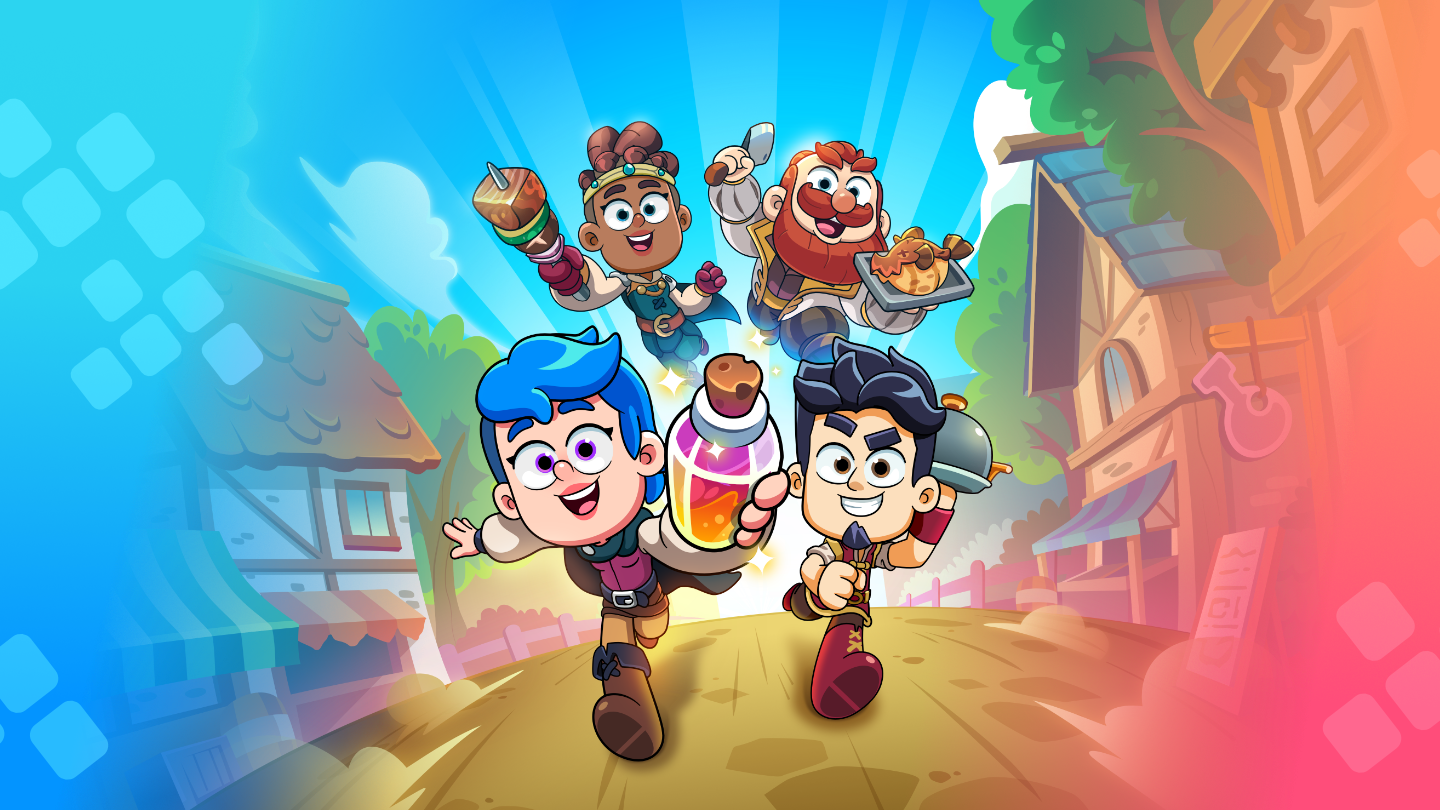
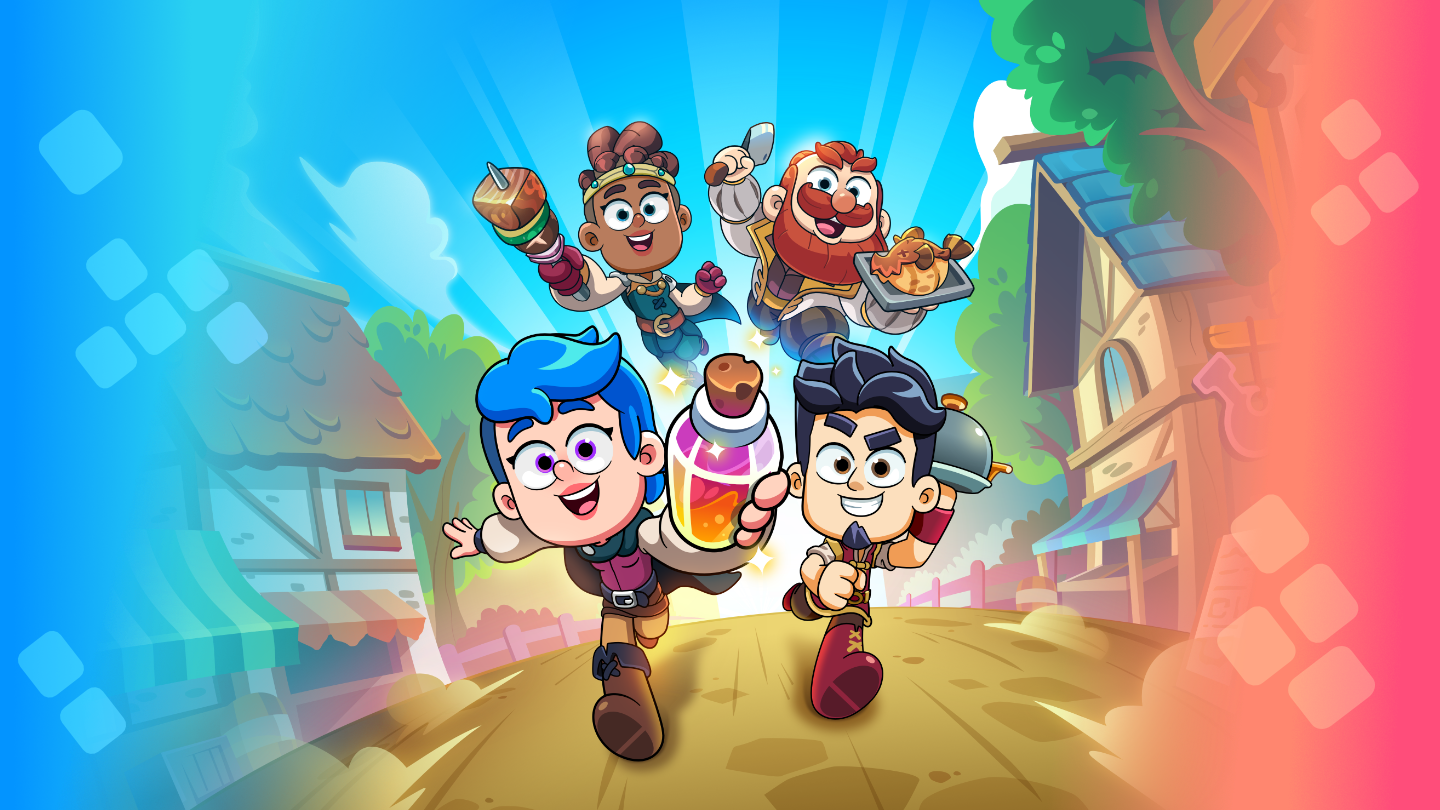
UI updates

diff --git a/assets/signup/css/signup.css b/assets/signup/css/signup.css
@@ -3,42 +3,59 @@
     padding: 0;
     font-family: LexendDeca;
 }
-body{
-    display: block;
-    width: 100%;
+html{
     height: 100%;
-    overflow: hidden;
-    position: absolute;
+}
+body{
+    /* display: block; */
+    /* width: 100%; */
+    min-height: 100%;
+    /* min-height: 100%; */
+    /* overflow-x: hidden;
+    overflow-y: auto; */
+    /* position: absolute; */
+    /* border:2px solid rgb(255, 0, 242); */
+    /* position: relative; */
+    
 }
 .monstronauts-body{
+    
+    display: flex;
+    flex-direction: column;
+    align-items: center;
+    /* overflow: hidden; */
+    position: absolute;
+    width: 100%;
+    height: 100%;
+    /* bottom: 0; */
+}
+/* .background{
+    position: fixed;
+    width: 100vw;
+    height: 100vh;
     background-image: url(../image/ppr_web_BG.png);
     background-size: cover;
     background-repeat: no-repeat;
     background-position: center;
-    display: flex;
-    flex-direction: column;
-    align-items: center;
-    overflow: hidden;
-    position: relative;
-    width: 100%;
-    height: 100%;
-    bottom: 0;
-}
+    max-width: 1440px;
+    margin-left: 10rem;
+} */
 #background-container{
     display: flex;
     flex-direction: column;
     justify-content: center;
     align-items: center;
-    overflow: hidden;
-    position: absolute;
+    /* overflow: hidden; */
+    position: fixed;
     width: 100%;
     height: 100%;
+    background: linear-gradient(to right, #0394FF 50%, #FF4D7A 50%);
 }
 
 #background-container .background{
     position: absolute;
-    height: 115vh;
-    width: max-content;
+    height: 100%;
+    /* max-width: 100%; */
 }
 
 #signup-container{
@@ -46,7 +63,7 @@ body{
     flex-direction: column;
     justify-content: center;
     align-items: center;
-    overflow: hidden;
+    /* overflow: hidden; */
     position: relative;
     width: 100%;
     height: 100%;
@@ -55,6 +72,8 @@ body{
 #signup-container .logo{
     position: absolute;
     top: 2px;
+    max-width: 100%;
+    max-height: 100%;
 }
 
 #signup-container .signupBtn{
@@ -96,7 +115,7 @@ body{
 
 #signup-container .copyright{
     position: absolute;
-    bottom: 1rem;
+    bottom: 0.5rem;
     user-select: none;
 }
 .copyright .text{
@@ -109,9 +128,9 @@ body{
 
 
 @media screen and (max-width: 600px) {
-    #signup-container .logo{
+    /* #signup-container .logo{
         width: 85vw;
-    }
+    } */
     #signup-container .signupBtn{
         width: 85vw;
     }

diff --git a/assets/forms/css/forms.css b/assets/forms/css/forms.css
@@ -8,13 +8,13 @@ a:hover{
 #forms-container{
     display: flex;
     align-items: center;
-    justify-content: center;
+    /* justify-content: center; */
     flex-direction: column;
     width: 100%;
-    height: 100%;
+    /* height: 100%; */
     position: relative;
     /* border:2px solid red; */
-    overflow-y: auto;
+
 }
 #forms-container .logo{
     position: absolute;
@@ -24,13 +24,13 @@ a:hover{
 #forms-container .formColumn{
     display: flex;
     justify-content: center;
-    position: absolute;
+    position: relative;
     background-color: var(--web-forms-container);
     max-width: 85rem;
     padding-top: 5rem;
-    top: 8rem;
+    margin-top: 8rem;
     border-radius: 25px;
-    margin-bottom: 5rem;
+    margin-bottom: 1rem;
     margin-left: 10rem;
     margin-right: 10rem;
 }
@@ -38,11 +38,12 @@ a:hover{
     display: flex;
     flex-direction: column;
     align-items: center;
-    justify-content: center;
+    /* justify-content: center; */
     position: relative;
     width: 45%;
-    height: fit-content;
+    /* height: fit-content; */
     padding: 0 2rem 0rem 2rem;
+    user-select: none;
     /* padding-top: 8rem; */
     /* top: 8rem; */
     /* border:2px solid red; */
@@ -97,13 +98,15 @@ a:hover{
 #month{
     position: relative;
 }
-input[type="month"]:in-range::-webkit-datetime-edit-year-field, 
-input[type="month"]:in-range::-webkit-datetime-edit-month-field, 
-input[type="month"]:in-range::-webkit-datetime-edit-day-field, 
-input[type="month"]:in-range::-webkit-datetime-edit-text { 	
+.hideMonthPlaceholder::-webkit-datetime-edit-year-field, 
+.hideMonthPlaceholder:in-range::-webkit-datetime-edit-month-field,  
+.hideMonthPlaceholder:in-range::-webkit-datetime-edit-text { 	
     color: transparent; 
+    user-select: none;
+    background-color: transparent;
 }
-#month::-webkit-calendar-picker-indicator {
+
+/* #month::-webkit-calendar-picker-indicator {
     position: absolute;
     right: 0;
     width: 100%;
@@ -112,7 +115,7 @@ input[type="month"]:in-range::-webkit-datetime-edit-text {
     padding: 0;
     opacity: 0;
     cursor: pointer;
-  }
+  } */
 .datepicker {
     transform: translateX(-50%);
     left: 50% !important;

diff --git a/assets/forms/js/forms.js b/assets/forms/js/forms.js
@@ -25,7 +25,9 @@ $(document).ready(function () {
   attachSubmitButtonEvent();
 
   inputValidity("#email","Please enter a valid email")
-
+  $('#checkbox').on('invalid', function() {
+    this.setCustomValidity('Please accept the terms to proceed');
+  });
   
 });
 
@@ -131,6 +133,7 @@ function attachSubmitButtonEvent(){
 
 function inputValidity(element,onMismatch,onEmpty=""){
   $(element).on("input", function() {
+    
     if (this.validity.typeMismatch) {
       this.setCustomValidity(onMismatch);
     }
@@ -140,16 +143,40 @@ function inputValidity(element,onMismatch,onEmpty=""){
   });
 }
 function showMonthPlaceHolder(){
-  //var isMobile = /iPhone|iPad|iPod|Android/i.test(navigator.userAgent);
-  var $input = $('#month');
-  
-  $(".placeholder").html("MMM YYYY")
+  let isMobile = /iPhone|iPad|iPod|Android/i.test(navigator.userAgent);
+  let placeholderValue = "MMMM YYYY";
+  let $input = $('#month');
+  let $placeholder = $(".placeholder");
+
+  $input.focus(function (e) { 
+    if(!isMobile){
+      $(this).removeClass("hideMonthPlaceholder");
+      $placeholder.html("")
+    } 
+  });
+  $input.blur(function (e) { 
+    if(!isMobile && !$(this).val()){
+      $(this).addClass("hideMonthPlaceholder");
+      $placeholder.html(placeholderValue)
+    } 
+  });
+
+  $placeholder.html(placeholderValue)
   
   $input.on("input", function(){
-      if($(this).val())
-        $(".placeholder").html("")
-      if(!$(this).val())
-        $(".placeholder").html("MMM YYYY")  
+      if($(this).val()){
+          // if(!isMobile){
+          //   $placeholder.html($(this).val())
+          //   $placeholder.css("color","black")
+          // }
+          // else
+            $placeholder.html("")
+      }
+      if(!$(this).val() && isMobile){
+          $placeholder.html(placeholderValue)  
+          $placeholder.css("color","gray")
+        
+      }
     })
 
 }

diff --git a/index.html b/index.html
@@ -96,9 +96,10 @@
 
 </head>
 <body>
-    <!-- <div id="background-container">
+    <!-- <picture class="background"></picture> -->
+    <div id="background-container">
         <img class="background" src="assets/signup/image/ppr_web_BG.png" alt="pp2 background">
-    </div> -->
+    </div>
     <div class="monstronauts-body">
         <div id="signup-container">
             <img class="logo" src="assets/signup/image/ppr_web_logo.png" alt="pp2 logo" >
@@ -159,7 +160,7 @@
                         <label for="birth">Date of Birth</label><br>
                         <div class="month-container">
                             <span class="placeholder"></span>
-                            <input id="month" type="month" name="birth" required>
+                            <input id="month" class="hideMonthPlaceholder" placeholder="MMMM YYYY" type="month" name="birth" min="1923-01" max="2020-12" required>
                         </div>
                         
 
@@ -218,7 +219,7 @@
                         <div class="agreement">
                             
                             <div class="checkbox-container">
-                                <input class="checkbox" type="checkbox" name="agreement" required>
+                                <input id="checkbox" class="checkbox" type="checkbox" name="agreement" required>
                                 <div class="checkmark"></div>
                             </div>
                             <!-- <label>

diff --git a/assets/signup/js/signupClick.js b/assets/signup/js/signupClick.js
@@ -6,6 +6,8 @@ $(document).ready(function () {
             
             $("#signup-container").addClass("slide-out-top").promise() 
         
+        ).then(
+            $(".monstronauts-body").addClass("overflowHidden").promise()
         ).then(()=>{
             
             let deferred = new $.Deferred();
@@ -25,6 +27,7 @@ $(document).ready(function () {
 
             setInterval(() => {
                 $("#forms-container").removeClass("overflowHidden")
+                $(".monstronauts-body").removeClass("overflowHidden")
             },1000);
 
         })

diff --git a/assets/registered/html/registered.html b/assets/registered/html/registered.html
@@ -60,7 +60,10 @@
     
 </head>
 <body>
-    
+    <div id="background-container">
+        <img class="background" src="../../signup/image/ppr_web_BG.png" alt="pp2 background">
+    </div>
+
     <div class="monstronauts-body">
         <div id="signup-container">
             <img class="logo" src="../../signup/image/ppr_web_logo.png" alt="pp2 logo" >
